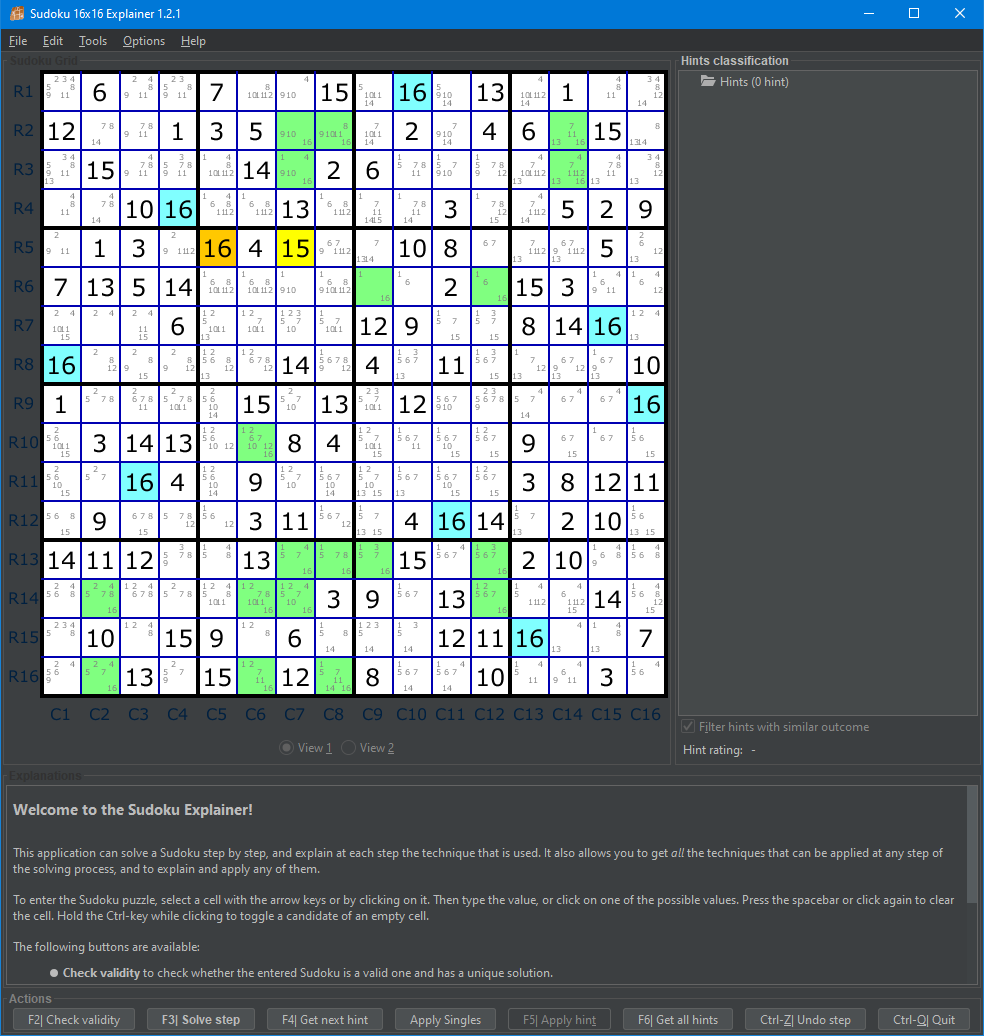
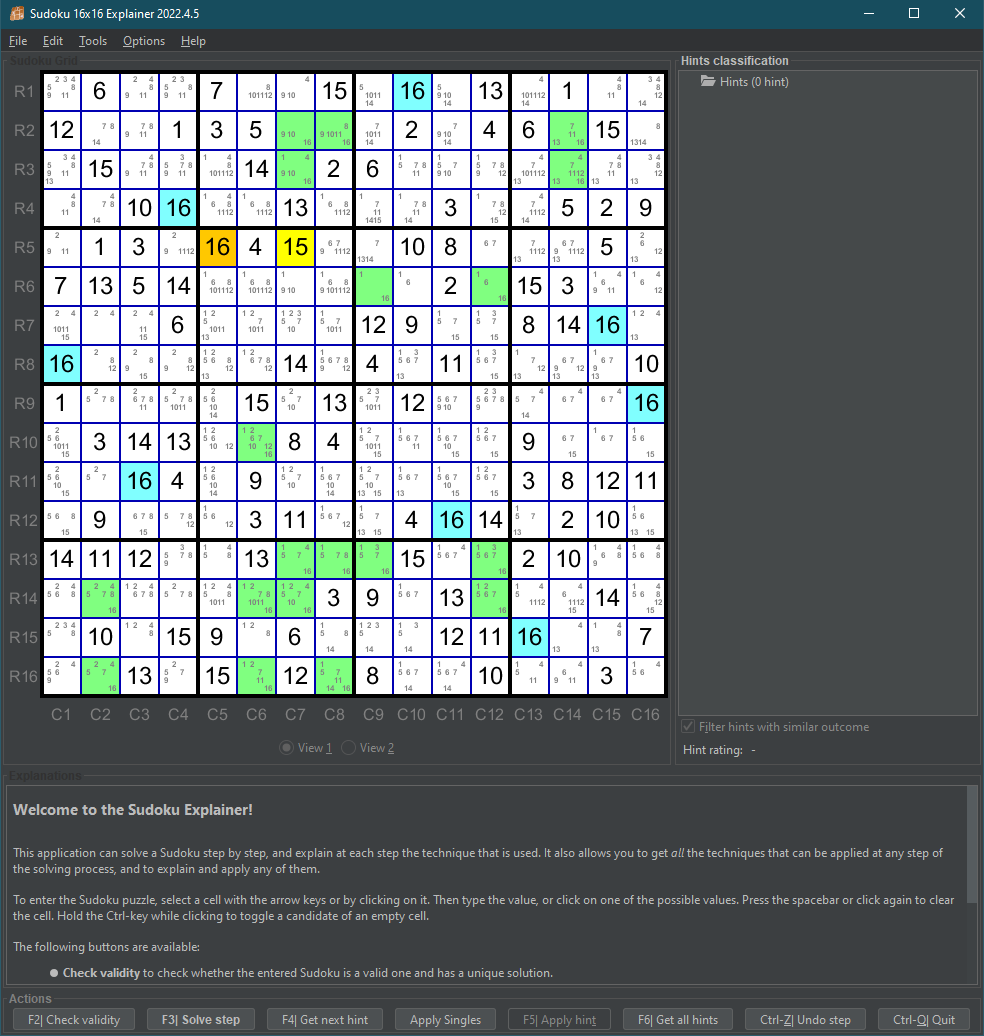
various small changes

diff --git a/diuf/sudoku/gui/SudokuFrame.java b/diuf/sudoku/gui/SudokuFrame.java
@@ -480,8 +480,7 @@ public class SudokuFrame extends JFrame implements Asker {
                             javax.swing.BorderFactory.createTitledBorder(null, "Sudoku Grid",
                             javax.swing.border.TitledBorder.DEFAULT_JUSTIFICATION,
                             javax.swing.border.TitledBorder.DEFAULT_POSITION,
-                            new java.awt.Font("Dialog", java.awt.Font.BOLD, 12),
-                            new java.awt.Color(51, 51, 51)));
+                            new java.awt.Font("Dialog", java.awt.Font.BOLD, 12), null));
             sudokuContainer.add(getSudokuPanel(), java.awt.BorderLayout.CENTER);
             sudokuContainer.add(getViewSelectionPanel(), java.awt.BorderLayout.SOUTH);
         }
@@ -496,8 +495,7 @@ public class SudokuFrame extends JFrame implements Asker {
                             javax.swing.BorderFactory.createTitledBorder(null, "Explanations",
                             javax.swing.border.TitledBorder.DEFAULT_JUSTIFICATION,
                             javax.swing.border.TitledBorder.DEFAULT_POSITION,
-                            new java.awt.Font("Dialog", java.awt.Font.BOLD, 12),
-                            new java.awt.Color(51, 51, 51)));
+                            new java.awt.Font("Dialog", java.awt.Font.BOLD, 12), null));
             hintDetailContainer.add(getHintsDetailScrollPane(), BorderLayout.CENTER);
         }
         return hintDetailContainer;
@@ -547,12 +545,11 @@ public class SudokuFrame extends JFrame implements Asker {
 
             buttonsPane = new JPanel();
             buttonsPane.setLayout(new GridBagLayout());
-            buttonsPane.setBorder(javax.swing.BorderFactory.createTitledBorder(
-                    null, "Actions",
+            buttonsPane.setBorder(
+                    javax.swing.BorderFactory.createTitledBorder( null, "Actions",
                     javax.swing.border.TitledBorder.DEFAULT_JUSTIFICATION,
                     javax.swing.border.TitledBorder.DEFAULT_POSITION,
-                    new java.awt.Font("Dialog", java.awt.Font.BOLD, 12),    // null));
-                    new java.awt.Color(128, 128, 128)));
+                    new java.awt.Font("Dialog", java.awt.Font.BOLD, 12), null));
 
             buttonsPane.add(getBtnCheckValidity(),   gridBagConstraints0);
             buttonsPane.add(getBtnApplyHintAndGet(), gridBagConstraints1);
@@ -720,11 +717,11 @@ public class SudokuFrame extends JFrame implements Asker {
         if (hintsTreePanel == null) {
             hintsTreePanel = new JPanel();
             hintsTreePanel.setLayout(new BorderLayout());
-            hintsTreePanel.setBorder(javax.swing.BorderFactory.createTitledBorder(
-                    null, "Hints classification",
+            hintsTreePanel.setBorder(
+                    javax.swing.BorderFactory.createTitledBorder(null, "Hints classification",
                     javax.swing.border.TitledBorder.DEFAULT_JUSTIFICATION,
-                    javax.swing.border.TitledBorder.DEFAULT_POSITION, new java.awt.Font(
-                            "Dialog", java.awt.Font.BOLD, 12), null));
+                    javax.swing.border.TitledBorder.DEFAULT_POSITION,
+                    new java.awt.Font("Dialog", java.awt.Font.BOLD, 12), null));
             hintsTreePanel.add(getHintsTreeScrollPane(), java.awt.BorderLayout.CENTER);
             hintsTreePanel.add(getHintsSouthPanel(), java.awt.BorderLayout.SOUTH);
         }

diff --git a/diuf/sudoku/gui/SudokuPanel.java b/diuf/sudoku/gui/SudokuPanel.java
@@ -250,7 +250,7 @@ public class SudokuPanel extends JPanel {
     private Cell getCellAt(int x, int y) {
         int cx = (x - LEGEND_GAP_SIZE) / CELL_OUTER_SIZE;
         int cy = (y - GRID_GAP_SIZE) / CELL_OUTER_SIZE;
-        if (cx < 0 || cx >= 16 || cy < 0 || cy >= 16)
+        if (x < LEGEND_GAP_SIZE || cx < 0 || cx >= 16 || cy < 0 || cy >= 16)
             return null;
         return grid.getCell(cx, cy);
     }
@@ -259,7 +259,7 @@ public class SudokuPanel extends JPanel {
         // Get cell's corner
         int cx = (x - LEGEND_GAP_SIZE) / CELL_OUTER_SIZE;
         int cy = (y - GRID_GAP_SIZE) / CELL_OUTER_SIZE;
-        if (cx < 0 || cx >= 16 || cy < 0 || cy >= 16)
+        if (x < LEGEND_GAP_SIZE || cx < 0 || cx >= 16 || cy < 0 || cy >= 16)
             return 0;
         Cell cell = grid.getCell(cx, cy);
         if (!cell.equals(this.selectedCell))

diff --git a/diuf/sudoku/solver/rules/NakedSingle.java b/diuf/sudoku/solver/rules/NakedSingle.java
@@ -27,13 +27,15 @@ public class NakedSingle implements DirectHintProducer {
 
             for (int index = 0; index < 256; index++) {
                 Cell cell = grid.getCell(index%16,index/16);
+              if ( cell.getValue() == 0 ) {
                 // Get the cell's potential values
                 BitSet potentialValues = cell.getPotentialValues();
                 if (potentialValues.cardinality() == 1) {
                     // One potential value -> solution found
-                    int uniqueValue = potentialValues.nextSetBit(0);
-                    accu.add(new NakedSingleHint(this, null, cell, uniqueValue));
+                //  int uniqueValue = potentialValues.nextSetBit(0);
+                    accu.add(new NakedSingleHint(this, null, cell, potentialValues.nextSetBit(0)));
                 }
+              }
             }
 
     }

diff --git a/diuf/sudoku/Settings.java b/diuf/sudoku/Settings.java
@@ -28,8 +28,8 @@ import javax.swing.UIManager;
 public class Settings {
 
     public final static int VERSION  = 2022;
-    public final static int REVISION = 2;
-    public final static int SUBREV   = 2;
+    public final static int REVISION = 4;
+    public final static int SUBREV   = 11;
 
     private static Settings instance = null;
 

diff --git a/README.md b/README.md
@@ -5,7 +5,7 @@ Sudoku16x16Explainer is my modifications to SudokuExplainer to solve 16x16 sudok
 ## Puzzle Format
 
 - The GUI displays solved cells and candidates using numbers 1-16.
-- Load/Save and Copy/Paste use A-P for the numbers 1-16 - Other formats: 0-9A-F, 1-9A-G, 1-16 are not supported.
+- Load/Save and Copy/Paste use A-P for the numbers 1-16 - The other formats: 0-9A-F, 1-9A-G, 1-16 are supported via 'Options', select the format BEFORE Load/Save and Copy/Paste operations.
 - Candidate input via keyboard is through keys A-P/a-p for the numbers 1-16, and keys 1-9 for numbers 1-9 - it is a better experience to select candidates using the mouse (left-click to set a candidate, right-click to remove a candidate).
 
 A puzzle converter to the A-P format used by Sudoku16Explainer is [here](https://github.com/1to9only/convert16x16).
